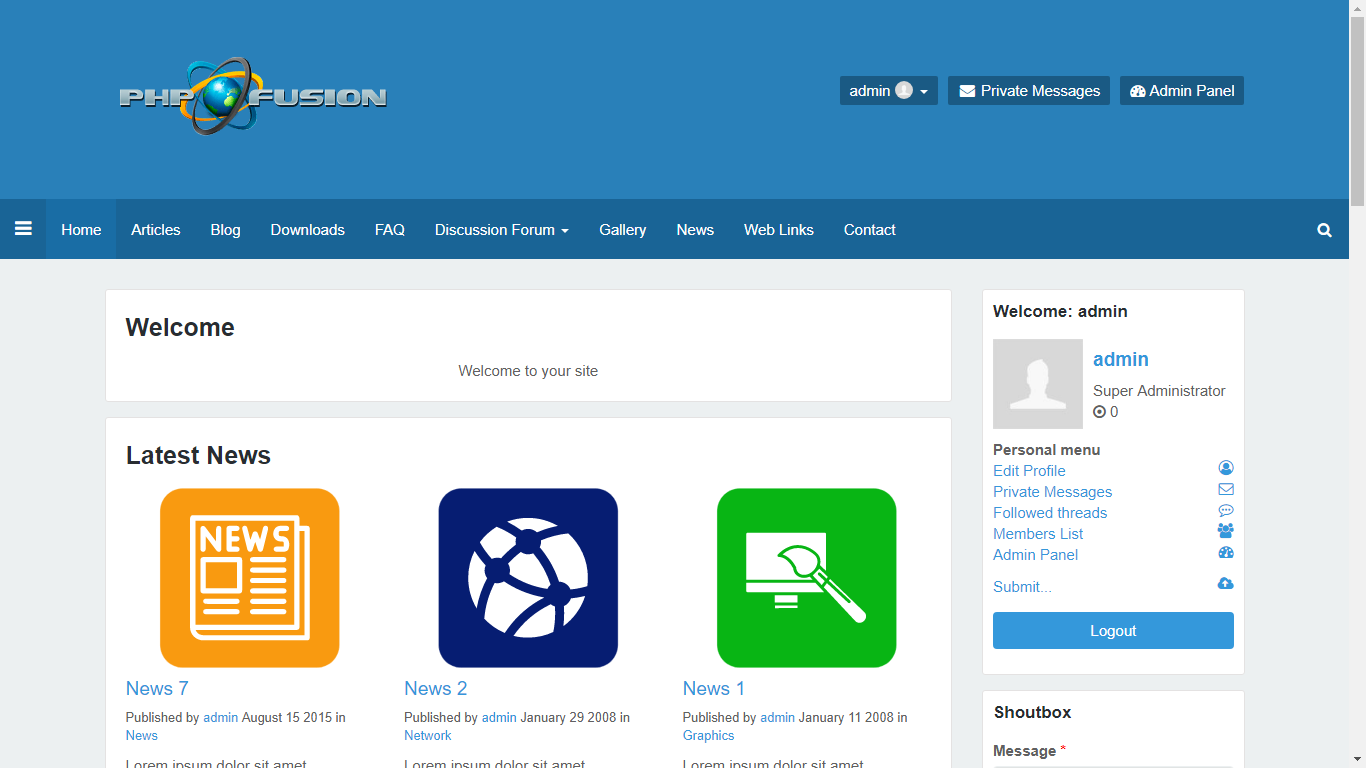
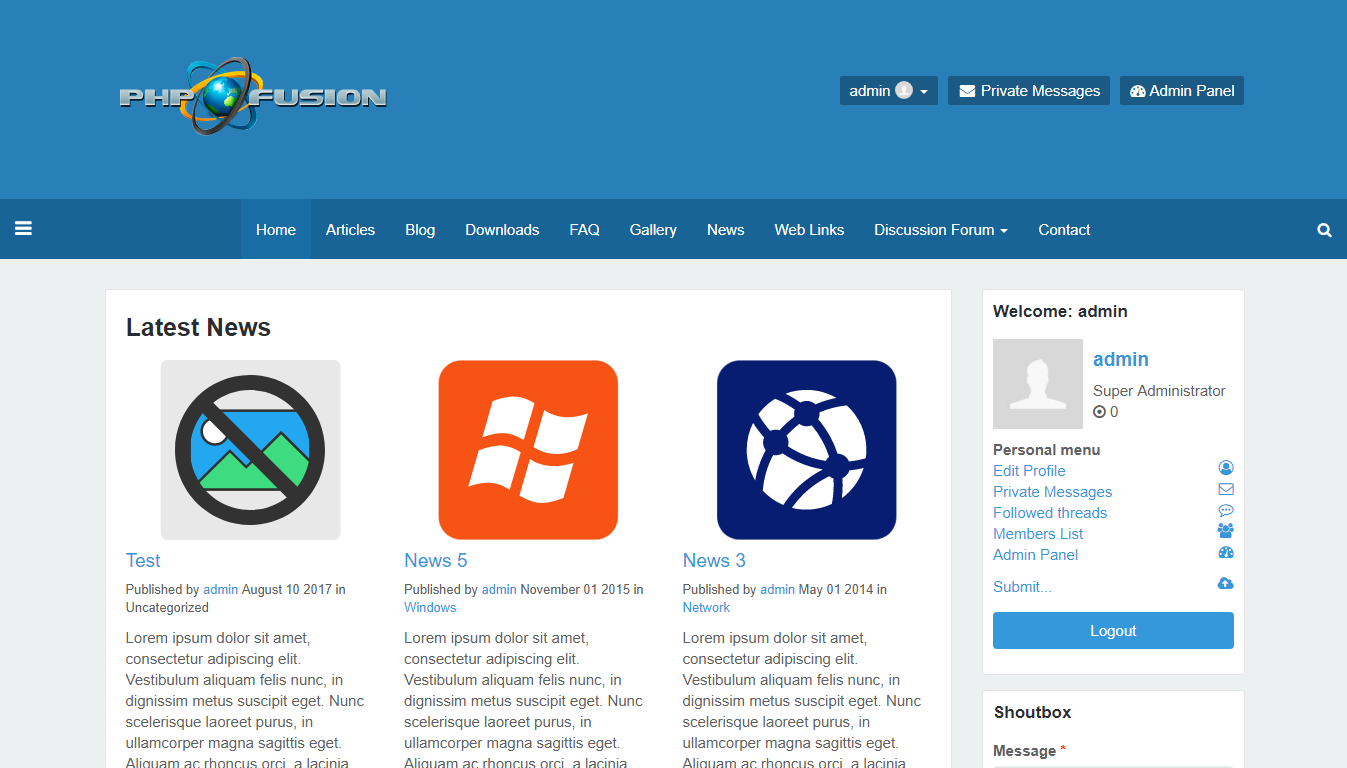
Update Czechia

diff --git a/themes/Czechia/assets/js/scripts.min.js b/themes/Czechia/assets/js/scripts.min.js
@@ -1,1 +1,1 @@
-$(function(){$(".dropdown").on("show.bs.dropdown",function(){$(this).find(".dropdown-menu").first().stop(true,true).slideDown(200);});$(".dropdown").on("hide.bs.dropdown",function(){$(this).find(".dropdown-menu").first().stop(true,true).slideUp(100);});$("#backtotop").on("click",function(e){e.preventDefault();$("html, body").animate({scrollTop:0},200);});$("#toggle-leftmenu").on("click",function(e){e.preventDefault();$("body").toggleClass("leftmenu-toggled");});$(".overlay").bind("click",function(){$("body").removeClass("leftmenu-toggled");});$("#main-menu").affix({offset:{top:100}});});
+$(function(){$(".dropdown").on("show.bs.dropdown",function(){$(this).find(".dropdown-menu").first().stop(true,true).slideDown(200);});$(".dropdown").on("hide.bs.dropdown",function(){$(this).find(".dropdown-menu").first().stop(true,true).slideUp(100);});$("#backtotop").on("click",function(e){e.preventDefault();$("html, body").animate({scrollTop:0},200);});$("#toggle-leftmenu").on("click",function(e){e.preventDefault();$("body").toggleClass("leftmenu-toggled");});$(".overlay").bind("click",function(){$("body").removeClass("leftmenu-toggled");});$("#main-menu").affix({offset:{top:$(".theme-header").outerHeight()}});});

diff --git a/themes/Czechia/assets/js/scripts.js b/themes/Czechia/assets/js/scripts.js
@@ -1,7 +1,11 @@
 $(function () {
     $(".dropdown").on("show.bs.dropdown", function () {$(this).find(".dropdown-menu").first().stop(true, true).slideDown(200);});
     $(".dropdown").on("hide.bs.dropdown", function () {$(this).find(".dropdown-menu").first().stop(true, true).slideUp(100);});
-    $("#backtotop").on("click", function (e) {e.preventDefault();$("html, body").animate({scrollTop: 0}, 200);});
+
+    $("#backtotop").on("click", function (e) {
+        e.preventDefault();
+        $("html, body").animate({scrollTop: 0}, 200);
+    });
 
     $("#toggle-leftmenu").on("click", function (e) {
         e.preventDefault();
@@ -14,7 +18,7 @@ $(function () {
 
     $("#main-menu").affix({
         offset: {
-            top: 100
+            top: $(".theme-header").outerHeight()
         }
     });
 });

diff --git a/themes/Czechia/theme.php b/themes/Czechia/theme.php
@@ -106,7 +106,6 @@ function display_profile_form($info) {
     CzechiaTheme\Templates\Profile::EditProfile($info);
 }
 
-
 set_image('imagenotfound', fusion_get_settings('siteurl').'themes/Czechia/images/noimage.svg');
 
 /**
